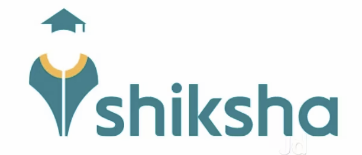
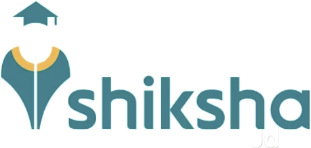
Add files via upload

Changed region(s): [[0.0, 0.2973, 1.0, 0.8919], [0.0289, 0.0, 0.2605, 0.2162]]

diff --git a/index.html b/index.html
@@ -329,8 +329,10 @@ button{font:inherit;color:inherit}
 .bm::after{content:"";position:absolute;right:-3px;top:50%;width:6px;height:6px;margin-top:-3px;border-radius:50%;background:var(--dot)}
 .bm span{font-weight:800;font-size:clamp(20px,2vw,34px);letter-spacing:-.01em;white-space:nowrap;color:var(--ink);opacity:.5;transition:opacity .25s}
 .bm:hover span{opacity:1}
-.bm img{display:block;height:clamp(28px,2.8vw,44px);width:auto;max-width:170px;object-fit:contain;filter:grayscale(1);opacity:.65;mix-blend-mode:multiply;transition:filter .25s,opacity .25s}
-.bm:hover img{filter:none;opacity:1}
+.bm img{display:block;height:calc(clamp(30px,2.7vw,44px) * var(--s,1));width:auto;max-width:220px;object-fit:contain;border-radius:6px;transition:transform .25s}
+.bm:hover img{transform:scale(1.06)}
+.marquee-track{align-items:center}
+.marquee-track ul{min-height:calc(clamp(30px,2.7vw,44px) * 1.45)}
 @keyframes marq{to{transform:translateX(-50%)}}
 @media (prefers-reduced-motion: reduce){.marquee-track{animation:none;flex-wrap:wrap;width:auto;justify-content:center}.marquee-track ul[aria-hidden]{display:none}.marquee{-webkit-mask-image:none;mask-image:none}.marquee-track ul{flex-wrap:wrap;justify-content:center;row-gap:12px}}
 
@@ -743,10 +745,11 @@ const SETS = {
 // Brands I've worked with. Upload a logo to the repo root with the exact "logo" file name
 // and it replaces the text automatically. No logo file = the name shows.
 const BRANDS = [
-  { name: "Red Bull", logo: "redbull.png" }, { name: "Swish", logo: "swish.png" }, { name: "Be10x", logo: "be10x.png" },
-  { name: "Alien Kind", logo: "alienkind.png" }, { name: "Frido", logo: "frido.png" }, { name: "Physics Wallah", logo: "pw.png" },
-  { name: "Educart", logo: "educart.png" }, { name: "Shiksha.com", logo: "shiksha.png" }, { name: "SuperProfile", logo: "superprofile.png" },
-  { name: "Tutedude", logo: "tutedude.png" }, { name: "DU Buddy", logo: "dubuddy.png" }, { name: "Bake 5", logo: "bake5.png" }
+  // size: optional multiplier to balance a logo visually against the others (1 = normal)
+  { name: "Red Bull", logo: "redbull.png", size: 1.45 }, { name: "Swish", logo: "swish.png" }, { name: "Be10x", logo: "be10x.png", size: 1.1 },
+  { name: "Alien Kind", logo: "alienkind.png", size: 1.05 }, { name: "Frido", logo: "frido.png" }, { name: "Physics Wallah", logo: "pw.png", size: 1.3 },
+  { name: "Educart", logo: "educart.png", size: .95 }, { name: "Shiksha.com", logo: "shiksha.png", size: 1.3 }, { name: "SuperProfile", logo: "superprofile.png", size: .8 },
+  { name: "Tutedude", logo: "tutedude.png", size: 1.05 }, { name: "DU Buddy", logo: "dubuddy.png", size: .8 }, { name: "Bake 5", logo: "bake5.png", size: 1.1 }
 ];
 
 // pdf: put the deck PDF in the repo root with this exact file name. Until it's there, a cover slide shows instead.
@@ -1256,7 +1259,7 @@ document.getElementById('brandRow').innerHTML = BRAND_WORK.map((b, i) => `
 // brands marquee (list rendered twice for a seamless loop)
 (() => {
   const t = document.getElementById('brandsTrack'); if (!t) return;
-  const one = BRANDS.map((b, i) => `<li class="bm" data-b="${i}"><span>${esc(b.name)}</span></li>`).join('');
+  const one = BRANDS.map((b, i) => `<li class="bm" data-b="${i}" style="--s:${b.size || 1}"><span>${esc(b.name)}</span></li>`).join('');
   t.innerHTML = `<ul>${one}</ul><ul aria-hidden="true">${one}</ul>`;
   BRANDS.forEach((b, i) => {
     if (!b.logo) return;
